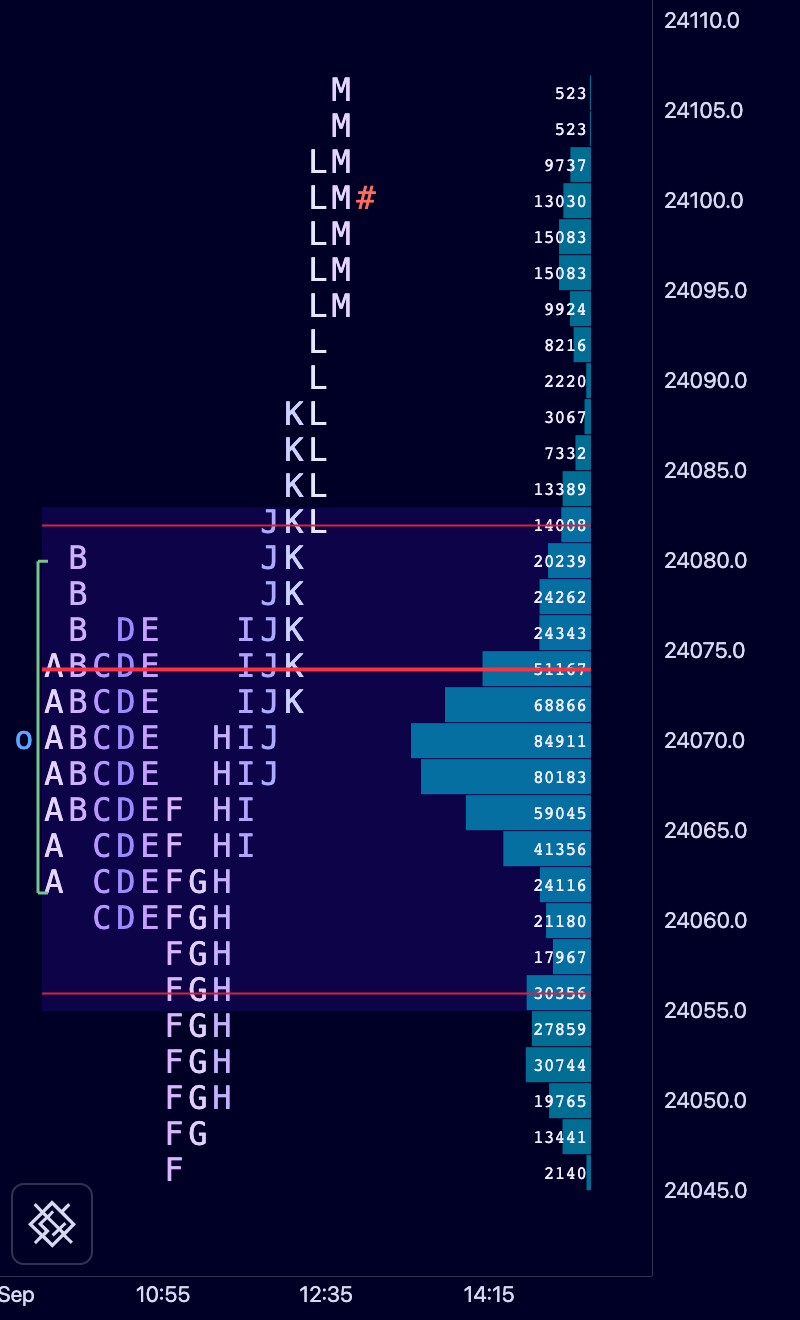
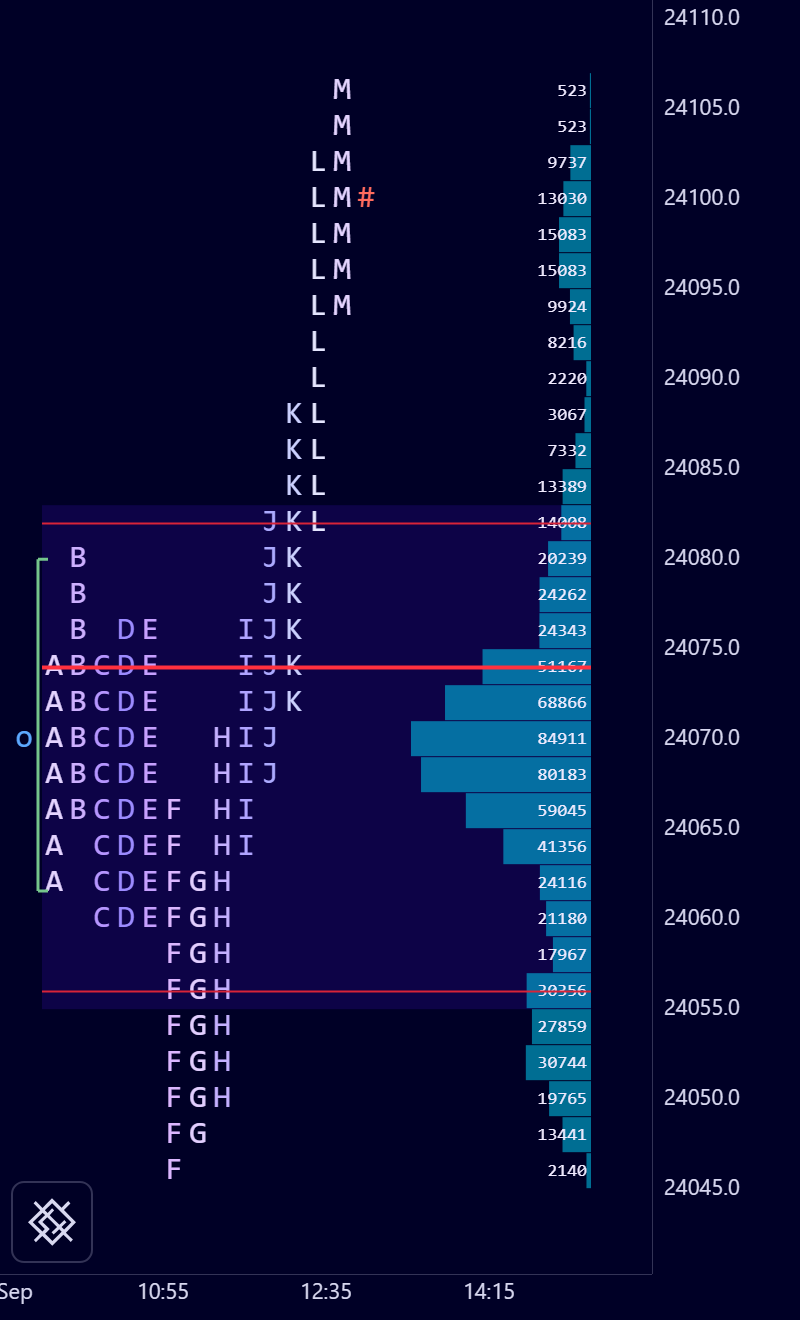
docs(website): grouped depth rows and market profile captures for 2.7.3
A grouped ladder now puts a bid at or below its price and an ask at or above, so the depth demo's check inspects them in their own rows and asserts no grouped row holds both; the demo caption and the depth page say so. The market profile captures are regenerated for the changed market-profile.ts source; the profile they show is unchanged.

diff --git a/website/components/DepthLadderDemo.tsx b/website/components/DepthLadderDemo.tsx
@@ -191,7 +191,7 @@ export default function DepthLadderDemo() {
         <span>Updates every 750 ms. All prices and quantities are simulated.</span>
         <span>Ladder grouping leaves candle prices, zoom and price scale untouched. Both views have separate instrument configuration.</span>
         <span>ATM call is an illustrative fixed contract; this demo does not select or roll live option contracts.</span>
-        <span>Row prices are rounded display buckets. Grouping can place both sides in one row.</span>
+        <span>Row prices are display buckets: a grouped bid sits at or below its price and an ask at or above, so no row shows a better price than the book holds.</span>
         <p role="status" aria-live="polite">{selection}</p>
       </div>
       <style jsx>{`
